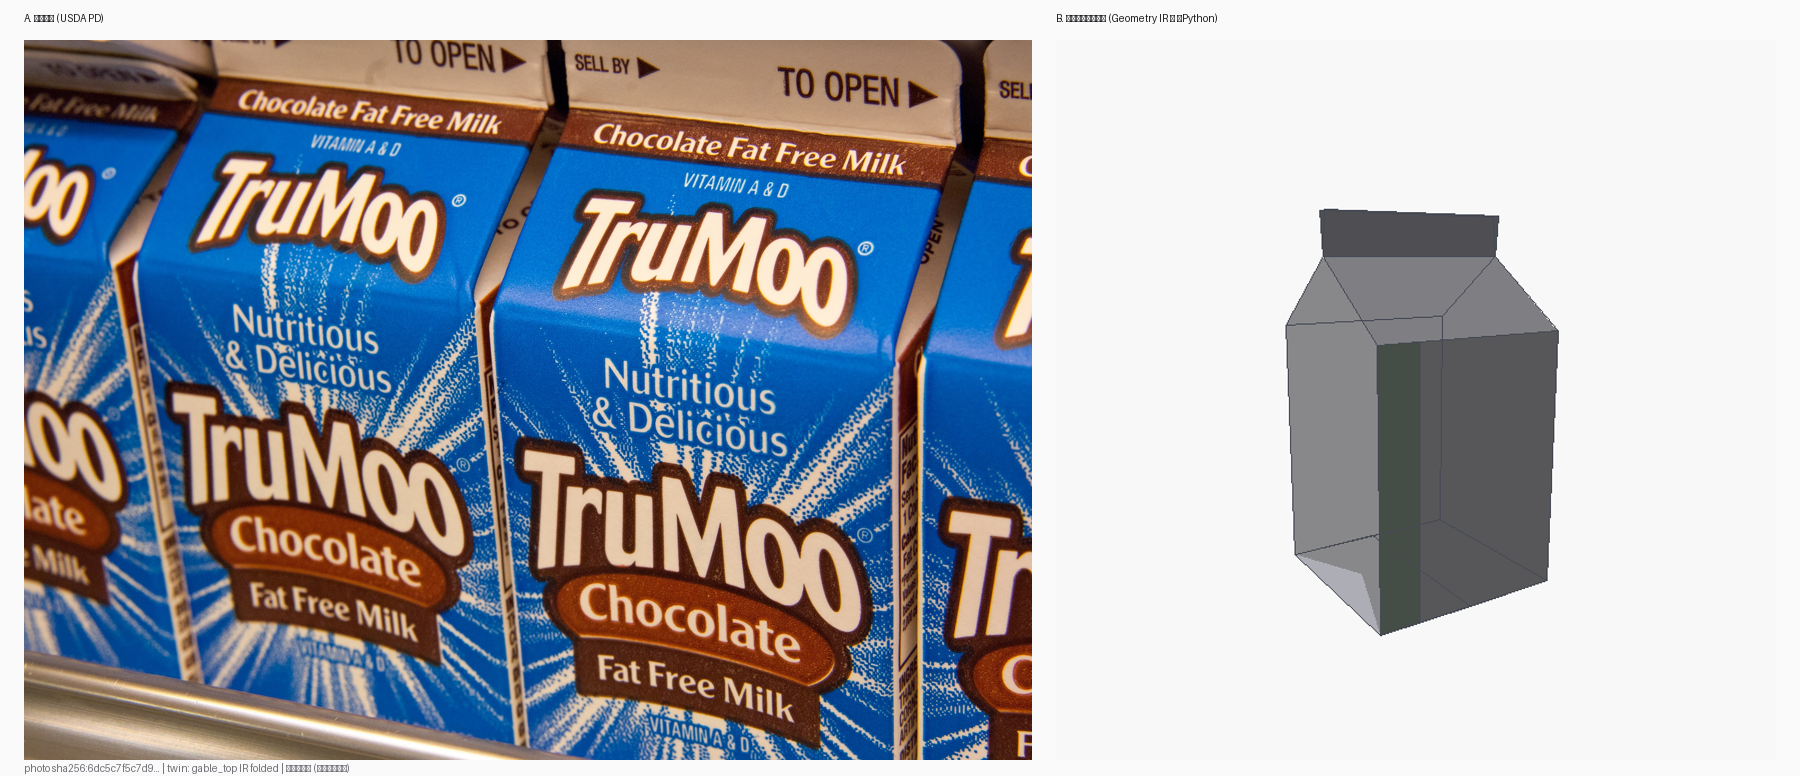
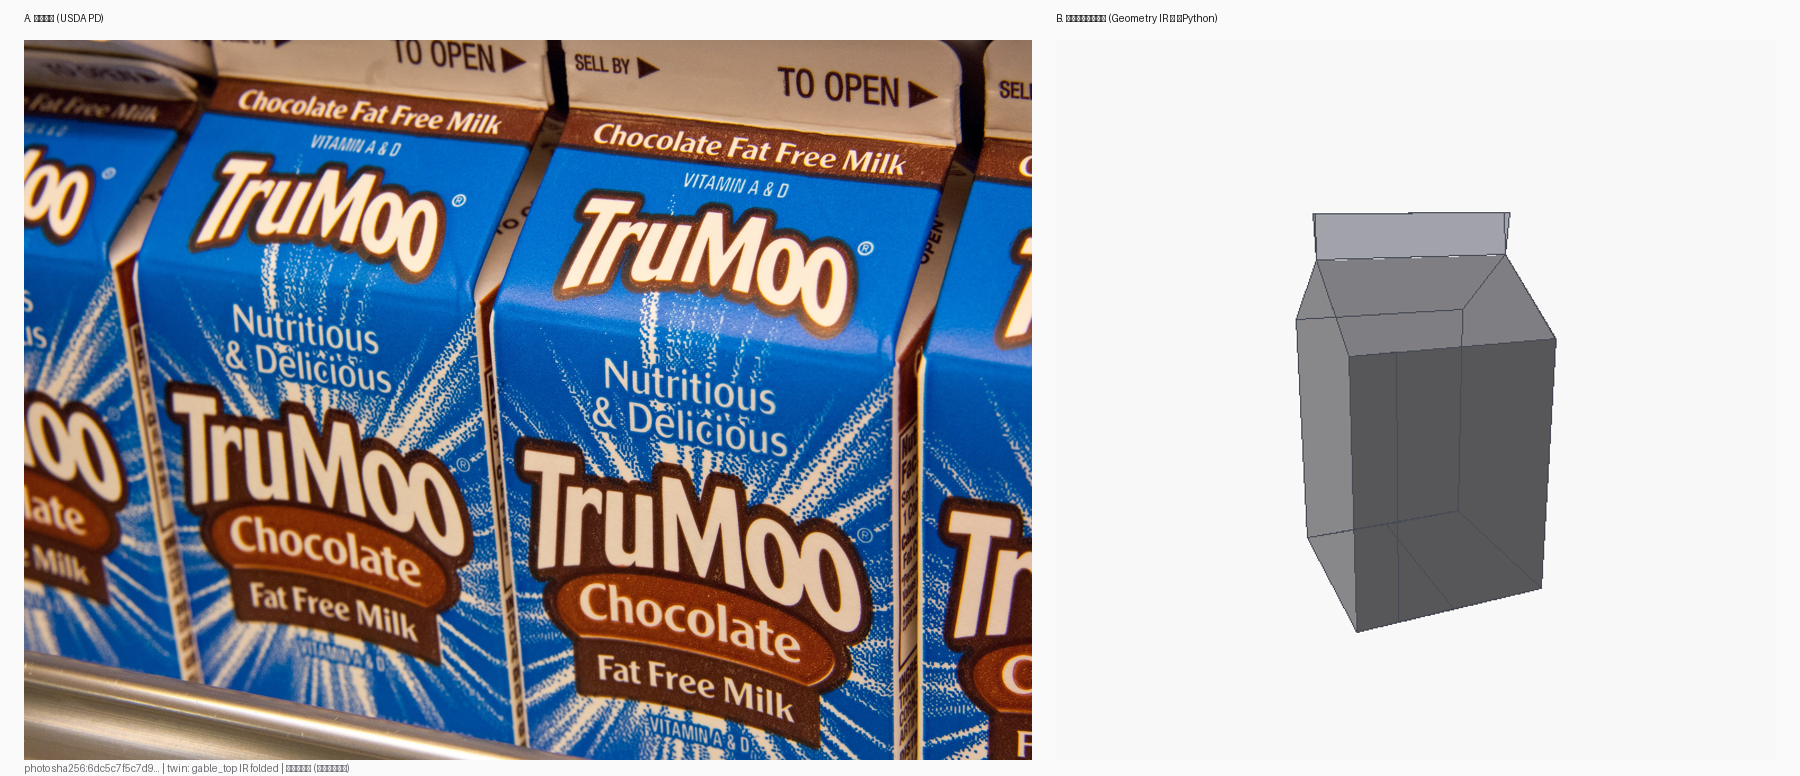
GPT六轮对抗评审闭环 P0-1 CLOSED: 渲染器三根因修复(绕序内翻法线外向归一/零板厚共面rank仲裁/透视正确1/z深度插值) + 面板ID调试渲染(--debug-ids) + 像素级证据方法(实际着色色阈值) + TruMoo商标识别入溯源 + 评审记录docs/reviews; 13pytest绿 QA VALIDATED

Changed region(s): [[0.7156, 0.2474, 0.8711, 0.8351], [0.84, 0.6804, 0.8711, 0.7732]]

diff --git a/src/photo_dieline/render/twin.py b/src/photo_dieline/render/twin.py
@@ -16,10 +16,21 @@ def _tri_faces(poly: np.ndarray) -> list[tuple[int, int, int]]:
     return [(0, i, i + 1) for i in range(1, len(poly) - 1)]
 
 
-def render_twin(ir: GeometryIR, size: int = 640, az_deg: float = -32.0,
-                el_deg: float = 12.0) -> Image.Image:
+PALETTE = [(94, 129, 244), (240, 96, 106), (72, 187, 120), (244, 180, 64), (155, 107, 244),
+           (64, 192, 220), (228, 120, 200), (140, 160, 90), (244, 130, 64), (90, 140, 200),
+           (200, 90, 90), (120, 190, 170), (180, 170, 80), (110, 110, 130), (220, 200, 120),
+           (90, 210, 140), (170, 110, 220), (230, 160, 110), (100, 120, 170), (160, 200, 90)]
+
+
+ROLE_RANK = {"wall": 0, "slope": 0, "gable_end": 0, "fin": 1, "flap": 1, "glue": 2}
+
+
+def render_twin(ir: GeometryIR, size: int = 640, az_deg: float = -22.0,
+                el_deg: float = 16.0, debug_ids: bool = False) -> Image.Image:
     world = fold_all(ir)
     roles = {p["id"]: p["role"] for p in ir.panels}
+    pids = [p["id"] for p in ir.panels]
+    pid_color = {pid: PALETTE[i % len(PALETTE)] for i, pid in enumerate(pids)}
     # 实体优先着色, 开板(鳍/底板/粘口)半透明逻辑: 简化 = 全部不透明按深度排序
     tris: list[tuple[np.ndarray, np.ndarray, np.ndarray, str]] = []
     allpts = np.vstack(list(world.values()))
@@ -29,7 +40,7 @@ def render_twin(ir: GeometryIR, size: int = 640, az_deg: float = -32.0,
 
     for pid, verts in world.items():
         for (ia, ib, ic) in _tri_faces(verts):
-            tris.append((verts[ia], verts[ib], verts[ic], roles.get(pid, "wall")))
+            tris.append((verts[ia], verts[ib], verts[ic], pid, roles.get(pid, "wall")))
 
     az, el = np.radians(az_deg), np.radians(el_deg)
     d = radius * 3.0
@@ -48,25 +59,32 @@ def render_twin(ir: GeometryIR, size: int = 640, az_deg: float = -32.0,
         return np.array([(x + 1) * size / 2, (1 - y) * size / 2]), z
 
     light = _norm(np.array([-0.35, 0.55, 0.76]))
-    order = []
-    for t in tris:
-        cen = (t[0] + t[1] + t[2]) / 3
-        order.append((float((cen - eye) @ fwd), t))
-    order.sort(key=lambda x: -x[0])
-
     img = np.full((size, size, 3), 248, dtype=np.uint8)
-    for depth, (a, b, c, role) in order:
+    zbuf = np.full((size, size), np.inf)
+    rbuf = np.full((size, size), 9, dtype=np.int8)
+
+    def outward_normal(a, b, c):
+        n = _norm(np.cross(b - a, c - a))
+        if n @ (0.5 * (a + b + c) - center) < 0:  # 模板绕序内翻 → 背离盒中心定向
+            n = -n
+        return n
+
+    for (a, b, c, pid, role) in tris:
+        nrm = outward_normal(a, b, c)
+        if debug_ids and nrm @ (eye - a) < 0:
+            continue  # 背面剔除 (仅调试图; 法线已外向归一)
         p2a, za = project(a); p2b, zb = project(b); p2c, zc = project(c)
-        nrm = _norm(np.cross(b - a, c - a))
-        if nrm @ (eye - a) < 0:
-            nrm = -nrm
-        base = {"wall": (0.90, 0.90, 0.92), "slope": (0.88, 0.88, 0.91),
-                "fin": (0.82, 0.82, 0.86), "flap": (0.80, 0.80, 0.84),
-                "glue": (0.72, 0.80, 0.74), "gable_end": (0.90, 0.90, 0.92)}.get(role, (0.88, 0.88, 0.9))
-        lam = max(0.0, float(nrm @ light))
-        shade = 0.38 + 0.62 * lam
-        col = np.array([base[0] * shade, base[1] * shade, base[2] * shade]) * 255
-        fill_tri(img, p2a, p2b, p2c, col)
+        if debug_ids:
+            base = tuple(v / 255.0 for v in pid_color.get(pid, (128, 128, 128)))
+            col = np.array(base) * 235
+        else:
+            base = {"wall": (0.90, 0.90, 0.92), "slope": (0.88, 0.88, 0.91),
+                    "fin": (0.82, 0.82, 0.86), "flap": (0.80, 0.80, 0.84),
+                    "glue": (0.78, 0.78, 0.81), "gable_end": (0.90, 0.90, 0.92)}.get(role, (0.88, 0.88, 0.9))
+            lam = max(0.0, float(nrm @ light))
+            shade = 0.38 + 0.62 * lam
+            col = np.array([base[0] * shade, base[1] * shade, base[2] * shade]) * 255
+        fill_tri_z(img, zbuf, rbuf, ROLE_RANK.get(role, 1), p2a, za, p2b, zb, p2c, zc, col)
 
     # 结构棱线: 重投影所有折线邻接边(近似=面板轮廓)
     im = Image.fromarray(img)
@@ -77,11 +95,23 @@ def render_twin(ir: GeometryIR, size: int = 640, az_deg: float = -32.0,
         for v in verts:
             p2, _ = project(v)
             pts.append(tuple(p2))
-        dr.line(pts + [pts[0]], fill=(70, 74, 84), width=1)
+        dr.line(pts + [pts[0]], fill=(30, 32, 38) if debug_ids else (70, 74, 84), width=1)
+    if debug_ids:
+        gl = Image.new("RGB", (168, 24 * len(pids) + 8), (250, 250, 250))
+        dg = ImageDraw.Draw(gl)
+        for i, pid in enumerate(pids):
+            y = 4 + i * 24
+            dg.rectangle([4, y, 20, y + 16], fill=pid_color[pid], outline=(40, 40, 44))
+            dg.text((26, y + 2), f"{pid} ({roles.get(pid, '?')})", fill=(30, 30, 34))
+        canvas = Image.new("RGB", (im.width + gl.width, im.height), (250, 250, 250))
+        canvas.paste(im, (0, 0))
+        canvas.paste(gl, (im.width, 0))
+        return canvas
     return im
 
 
-def fill_tri(img: np.ndarray, p2a, p2b, p2c, col) -> None:
+def fill_tri_z(img: np.ndarray, zbuf: np.ndarray, rbuf: np.ndarray, rank: int,
+               p2a, za, p2b, zb, p2c, zc, col) -> None:
     size = img.shape[0]
     xs = [p2a[0], p2b[0], p2c[0]]
     ys = [p2a[1], p2b[1], p2c[1]]
@@ -89,19 +119,30 @@ def fill_tri(img: np.ndarray, p2a, p2b, p2c, col) -> None:
     y0, y1 = max(0, int(min(ys))), min(size - 1, int(max(ys)) + 1)
     if x1 < x0 or y1 < y0:
         return
-    ax, ay = p2a
     v0 = p2b - p2a
     v1 = p2c - p2a
     den = v0[0] * v1[1] - v1[0] * v0[1]
     if abs(den) < 1e-9:
         return
-    for yy in range(y0, y1 + 1):
-        for xx in range(x0, x1 + 1):
-            px = np.array([xx + 0.5, yy + 0.5]) - np.array([ax, ay])
-            u = (px[0] * v1[1] - v1[0] * px[1]) / den
-            v = (v0[0] * px[1] - px[0] * v0[1]) / den
-            if u >= -1e-6 and v >= -1e-6 and u + v <= 1 + 1e-6:
-                img[yy, xx] = np.clip(col, 0, 255)
+    gx, gy = np.meshgrid(np.arange(x0, x1 + 1) + 0.5, np.arange(y0, y1 + 1) + 0.5)
+    px_x = gx - p2a[0]
+    px_y = gy - p2a[1]
+    u = (px_x * v1[1] - v1[0] * px_y) / den
+    v = (v0[0] * px_y - px_x * v0[1]) / den
+    mask = (u >= -1e-6) & (v >= -1e-6) & (u + v <= 1 + 1e-6)
+    # 透视正确深度: 1/z 屏幕仿射 → 同平面三角形逐像素深度精确相等 (共面仲裁才可靠)
+    inv_z = (1.0 - u - v) / za + u / zb + v / zc
+    zz = 1.0 / np.maximum(inv_z, 1e-9)
+    sub_z = zbuf[y0:y1 + 1, x0:x1 + 1]
+    sub_r = rbuf[y0:y1 + 1, x0:x1 + 1]
+    # 同面仲裁: |Δz| < 0.6mm 视为共面(零板厚), 高优先级(低rank)面板胜出
+    coplanar = mask & (np.abs(zz - sub_z) < 0.6) & (rank < sub_r)
+    nearer = mask & (zz < sub_z - 0.6)
+    upd = nearer | coplanar
+    sub_z[upd] = zz[upd]
+    sub_r[upd] = rank
+    sub_img = img[y0:y1 + 1, x0:x1 + 1]
+    sub_img[upd] = np.clip(col, 0, 255)
 
 
 def _norm(v: np.ndarray) -> np.ndarray:

diff --git a/src/photo_dieline/cli.py b/src/photo_dieline/cli.py
@@ -101,15 +101,16 @@ def render_cmd(
     ir_path: str = typer.Option(..., "--ir", help="geometry-ir.json"),
     photo: str = typer.Option(..., "--photo", help="实拍参照照"),
     out: str = typer.Option(..., "--out", help="对比图输出 PNG"),
-    az: float = typer.Option(-32.0, help="相机方位角(度)"),
-    el: float = typer.Option(12.0, help="相机仰角(度)"),
+    az: float = typer.Option(-22.0, help="相机方位角(度)"),
+    el: float = typer.Option(16.0, help="相机仰角(度)"),
+    debug_ids: bool = typer.Option(False, "--debug-ids", help="面板ID调试渲染(异色+背面剔除+图例)"),
 ) -> None:
     """逆向孪生折叠渲染 + 与实拍并排对比 (photo-alignment 人工确认件)."""
     from .core.ir import from_raw
     from .render.twin import compare_side_by_side, render_twin
 
     ir = from_raw(json.loads(Path(ir_path).read_text()))
-    twin = render_twin(ir, az_deg=az, el_deg=el)
+    twin = render_twin(ir, az_deg=az, el_deg=el, debug_ids=debug_ids)
     twin_path = Path(out).with_name(Path(out).stem + "_twin.png")
     twin.save(twin_path)
     compare_side_by_side(photo, twin, out)

diff --git a/src/photo_dieline/parametric/gable_top.py b/src/photo_dieline/parametric/gable_top.py
@@ -82,6 +82,8 @@ def build_ir(params: dict | None = None) -> dict:
     ]
     # 山墙三角归属(拓扑标注): wallL/wallR 顶三角即 gable_end 区, 同板无折线
     panels[1]["wall_of"] = "wallL"
+    # 注: polygon_2d 顶点序是 M1 冻结合同 (G04 索引配对依赖), 不改;
+    # 法线外向归一由渲染器侧处理 (twin.py)
 
     lean = math.asin(min(1.0, (gap / 2) / Ef)) if Ef > 0 else 0.0
     # 全部折线显式 target_dir_3d (模板解析已知封闭盒: wallL x=-W/2 平面 y 0..D;

diff --git a/docs/reviews/2026-11-18-gpt-reverse-loop.md b/docs/reviews/2026-11-18-gpt-reverse-loop.md
@@ -1,0 +1,35 @@
+# GPT 逆向-孪生-对比闭环评审记录（2026-11-18）
+
+外部独立评审：ChatGPT（browser relay，用户登录会话，对话 `6afdba54-6c8c-83e9-b251-df28d94b9ddf`）。
+协议：上传实拍照/渲染件 → 结构化对抗核验 → 按处方单变量整改 → 复审 → 同标尺打分。
+未声明核验项一律标"未执行"，禁止脑补。
+
+## 六轮演进
+
+| 轮 | 交付 | 判决 | 关键发现 |
+|---|---|---|---|
+| R1 | V0.1 对比件（画家算法渲染, az-45°） | CONDITIONAL 5.5/10 | 底部穿透伪影；姿态 45° 双面等宽≠实拍主面朝前；照片品牌 TruMoo 可读 |
+| R2 | V0.2（z-buffer; az-22° el16°; 粘口中性灰） | CONDITIONAL 6.5/10 (+1.0) | 穿透消失; 姿态明显接近; 处方:面板ID调试渲染 |
+| R3 | debug_ids（异色+背面剔除+图例） | P0-1 OPEN | **back 大面可见/front 不可见**——命名 vs 相机矛盾 |
+| R4 | 严格正视 debug + 根因披露①② | P0-1 OPEN(接近) | 法线内翻证实为真根因; 但斜视仍见 glue 蓝条 → 唯一处方:glue/front 局部核查 |
+| R5 | 像素清点证据（阈值30 → 0像素） | OPEN(证据冲突) | **GPT 实测 (86,118,224) 打脸我的假阴性**——阈值没算 0.92 压暗系数 |
+| R6 | 真根因③修复 + 正确阈值复核 | **P0-1 CLOSED** | 蓝条=glue 外露, 根因=深度插值非透视正确; 修复后主体 glue 像素=0 |
+
+## 三个真根因（按发现顺序）
+
+1. **模板 polygon 绕序 → 全部 Newell 法线朝内**。z-buffer 与绕序无关所以常规渲染看着正常；debug 背面剔除一开，外壁被剔、看到的全是内表面。修：渲染器法线按"背离盒中心"外向归一（模板顶点序是 G04 门禁索引配对合同，不动模板）。
+2. **零板厚理想化的共面 z-fighting**：glue 按设计折进前墙内侧，与 front 同在 y=0 平面（Δy<1e-12）。修：渲染器同面仲裁（|Δz|<0.6mm 共面时壁板 rank 0 < 粘口 rank 2 胜出）。
+3. **深度插值不透视正确**：屏幕空间线性重心插值 z 对透视投影是近似（精确是 1/z 屏幕仿射）。front 大三角形与 glue 小三角形虽同平面，线性插值差可达数毫米 > 0.6mm 仲裁阈 → glue 局部胜出形成竖条。修：逐像素 `zz = 1/(Σ w_i/z_i)` 透视正确插值，同平面深度精确相等，仲裁确定性生效。
+
+## 方法论沉淀
+
+- 对抗评审的**证据矛盾质疑（R5）追出了评审方自己的证据 bug**——比单轮通过更有价值。
+- 像素级清点必须用**实际着色色**（含光照/压暗系数），不能用图例原色。
+- 调试渲染（面板异色+背面剔除）是把"渲染伪影"与"几何错误"分离的关键仪器。
+- GPT 自报未执行项：未跑源码/pytest/像素脚本；其 CLOSED 判决基于我方程序化证据披露 + 其视觉核验。
+
+## 遗留（下一门）
+
+- **P0-2 相机配准**：裁单只盒 → 角点/竖棱/屋脊/立鳍标记 → 拟合相机内外参 → 轮廓叠加+重投影误差（阈值需先标定实验确定，不得直接宣称毫米精度）。
+- P0-3 外形相似性与结构参数正确性分离核验。
+- vision 主通道配额恢复后的 USDA 照片像素级视检（当前内容认证靠 Commons 元数据 + GPT relay 双通道）。

diff --git a/examples/gable_top/PHOTO_PROVENANCE.md b/examples/gable_top/PHOTO_PROVENANCE.md
@@ -14,7 +14,7 @@
 
 ## 商标声明
 
-照片为公版实拍场景，盒面可能含第三方乳品商标像素。本照片**仅作几何参照证据**（G01 证据门），不参与任何输出刀版的图形复刻；输出刀版使用虚构 TOPPRISM 印刷图案。
+照片为公版实拍场景，盒面第三方商标经独立 LLM 视觉核验（2026-11-18，GPT relay）识别为 **TruMoo Chocolate Fat Free Milk**（General Mills 旗下，清晰可读）。本照片**仅作几何参照证据**（G01 证据门），不参与任何输出刀版的图形复刻；输出刀版使用虚构 TOPPRISM 印刷图案。
 
 ## 用途边界
 
